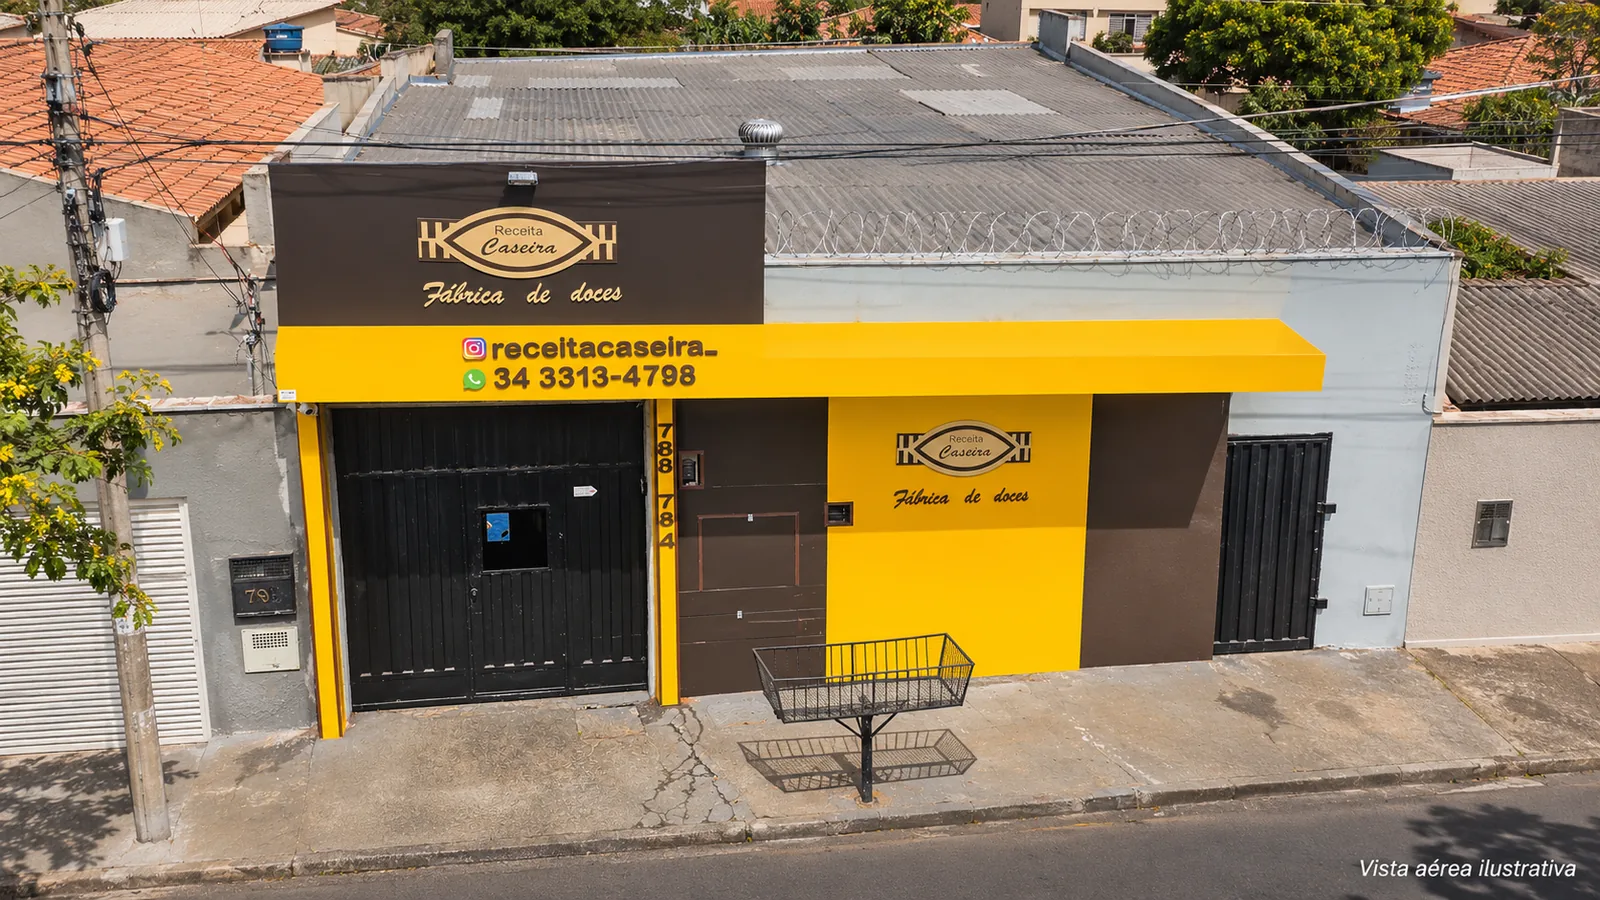
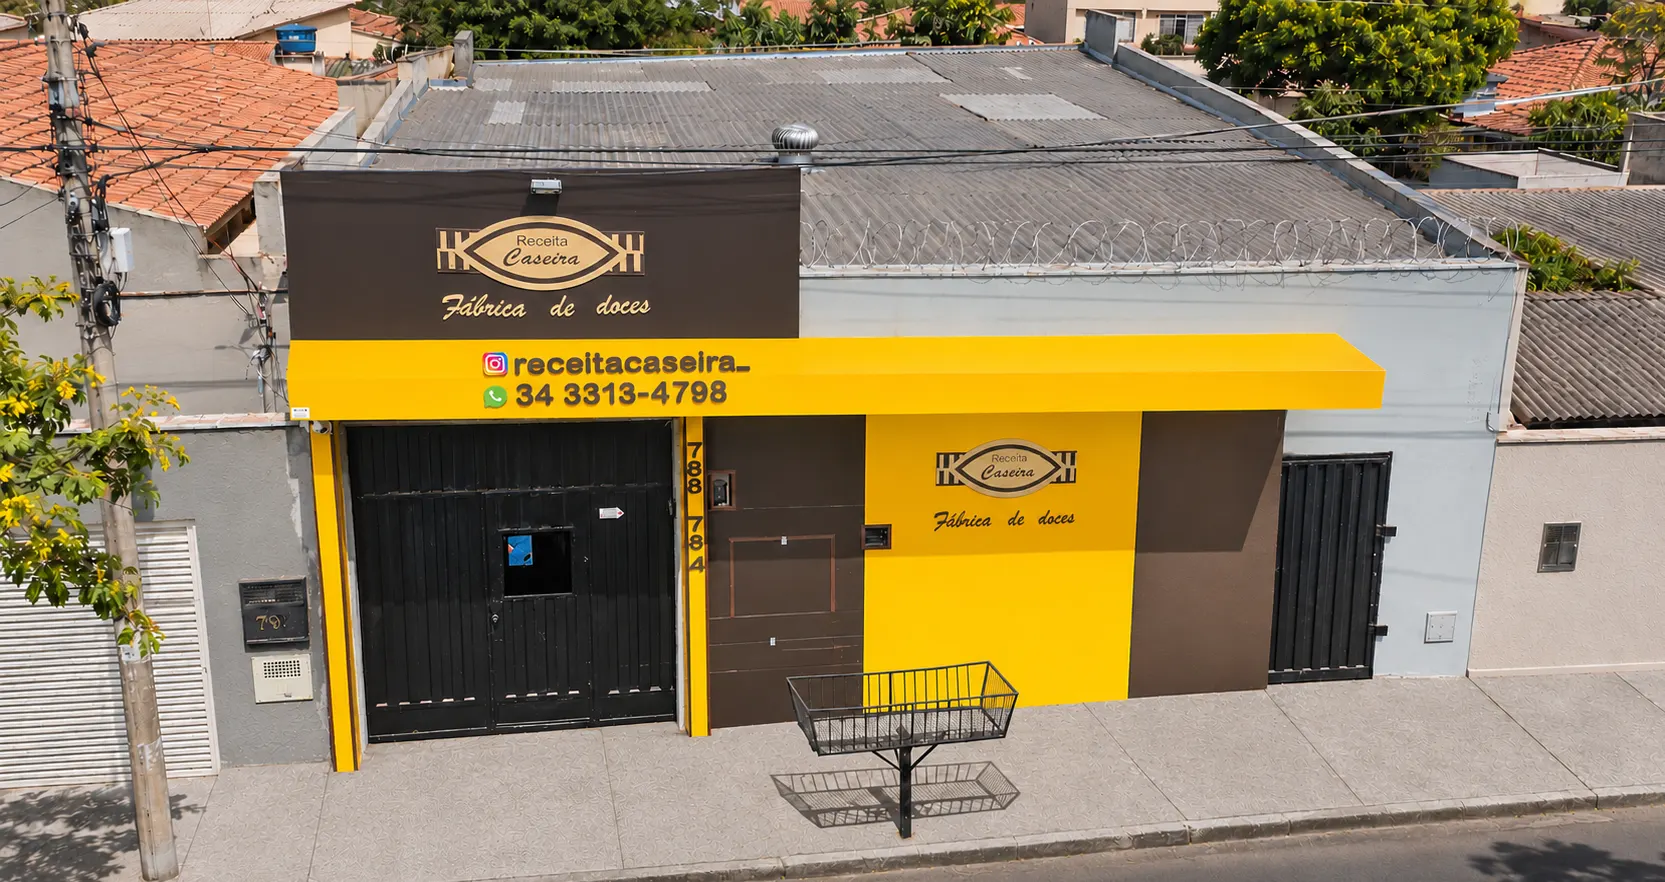
Atualiza foto da fachada
Nova foto aérea da fachada em JPG e WebP (900/1600) e proporção ajustada para 1665/882.

diff --git a/site/index.html b/site/index.html
@@ -400,7 +400,7 @@ section{position:relative}
 .visite-grid{display:grid;gap:clamp(24px,4vw,40px)}
 @media (min-width:960px){.visite-grid{grid-template-columns:1.1fr 1fr}}
 .fachada{align-self:start;border-radius:var(--radius);overflow:hidden;border:2px solid var(--cacau);background:var(--manteiga)}
-.fachada img{width:100%;aspect-ratio:1672/941;object-fit:cover}
+.fachada img{width:100%;aspect-ratio:1665/882;object-fit:cover}
 .info{display:flex;flex-direction:column;gap:28px}
 .info h3{font-size:1.125rem;letter-spacing:0;font-weight:700;margin-bottom:8px}
 .info address{font-style:normal;font-size:1.25rem;font-weight:600;line-height:1.4}
@@ -781,7 +781,7 @@ section{position:relative}
         <figure class="fachada" data-reveal style="margin:0">
           <picture>
             <source srcset="assets/fachada-aerea-900.webp 900w, assets/fachada-aerea-1600.webp 1600w" sizes="(min-width:960px) 640px, 92vw" type="image/webp">
-            <img src="assets/fachada-aerea.jpg" width="900" height="506" alt="Vista ilustrativa do alto da fachada amarela e marrom da Receita Caseira – Fábrica de Doces, na Rua Inglaterra, 784, em Uberaba" loading="lazy">
+            <img src="assets/fachada-aerea.jpg" width="900" height="477" alt="Vista ilustrativa do alto da fachada amarela e marrom da Receita Caseira – Fábrica de Doces, na Rua Inglaterra, 784, em Uberaba" loading="lazy">
           </picture>
         </figure>
 
